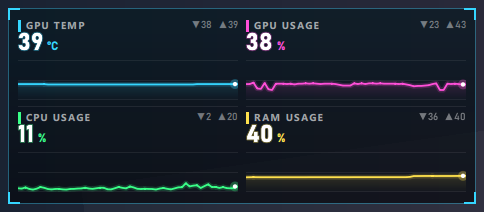
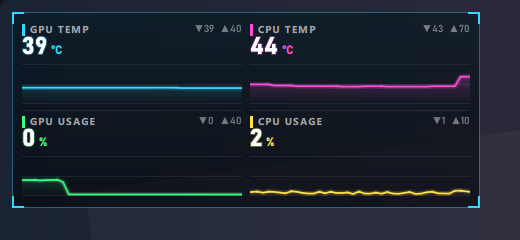
Screenshots: replace the old pictures with new ones (v1.17.7 window)
New: Home, Graphs, Overlay, Graph overlay, the graph overlay itself, Personalize.
Removed: the old Optimizer picture. README and README.fa show the new set.

Changed region(s): [[0.0, 0.0283, 0.9917, 0.9623], [0.3719, 0.4811, 0.6818, 0.6792], [0.3719, 0.0849, 0.6818, 0.2547]]

diff --git a/README.fa.md b/README.fa.md
@@ -5,7 +5,7 @@
 
 [English](README.md) · [دانلود](https://github.com/unrealhamed/Lmonitor/releases) · [گزارش باگ](https://github.com/unrealhamed/Lmonitor/issues/new?template=bug_report.md) · [پیشنهاد قابلیت](https://github.com/unrealhamed/Lmonitor/issues/new?template=feature_request.md)
 
-> **وضعیت: نسخهی اولیه (v1.17.6).** فقط توسط سازنده روی یک لپتاپ ویندوز ۱۱ (RTX 4070 Laptop + Intel Core i7-12700H) آزمایش شده است. روی سختافزارهای دیگر ممکن است بعضی سنسورها `n/a` نشان بدهند. گزارش باگ خوشآمد است.
+> **وضعیت: نسخهی اولیه (v1.17.7).** فقط توسط سازنده روی یک لپتاپ ویندوز ۱۱ (RTX 4070 Laptop + Intel Core i7-12700H) آزمایش شده است. روی سختافزارهای دیگر ممکن است بعضی سنسورها `n/a` نشان بدهند. گزارش باگ خوشآمد است.
 
 ## تصاویر
 
@@ -15,9 +15,11 @@
 |---|---|
 | ![اورلی نمودار: چهار نمودار زنده - دمای GPU، مصرف GPU، مصرف CPU و مصرف RAM - با تم Neon](docs/screenshots/graph-overlay-hud.png) | ![صفحهی اورلی نمودار: پیشنمایش زنده، انتخاب نمودارها، بازهی زمانی، جایگاه، تم رنگی، اندازه و چیدمان](docs/screenshots/graph-overlay.png) |
 
-| تنظیمات اورلی | بهینهساز |
+| نمودارها (لحظهای) | تنظیمات اورلی |
 |---|---|
-| ![صفحهی اورلی: پیشنمایش زندهی نوار، تراکم، جایگاه، ظاهر و مقادیری که نشان میدهد](docs/screenshots/overlay-settings.png) | ![صفحهی بهینهساز: پریستهای آماده، تنظیمات بازی ویندوز، پاور پلن، برنامههای استارتاپ و تاریخچهی برگرداندن](docs/screenshots/optimizer.png) |
+| ![صفحهی نمودارها: دمای CPU و GPU، RAM، مصرف CPU و GPU، دانلود و دور فن بهصورت لحظهای](docs/screenshots/graphs.png) | ![صفحهی اورلی: پیشنمایش زندهی نوار، تراکم، جایگاه، ظاهر و مقادیری که نشان میدهد](docs/screenshots/overlay-settings.png) |
+
+![صفحهی شخصیسازی: اجرا با ویندوز، اندازهی برنامه، گوشهها، فونت، ده پوسته و رنگهای اصلی](docs/screenshots/personalize.png)
 
 ## دانلود و نصب
 
@@ -63,7 +65,7 @@
 **نمودارهای خطی زنده** روی بازی؛ مثلاً دمای GPU و CPU کنار FPS. از منوی کناری، بخش *بازی*، صفحهی **اورلی نمودار** روشنش کنید. **دو تا** از آن هست (*نمودار ۱* و *نمودار ۲*) و هر کدام نمودارها، جا و ظاهر خودش را دارد.
 
 - **نمودارها:** FPS، فریمتایم، دمای GPU / CPU، مصرف GPU / CPU / RAM، توان GPU / CPU. تا ۶ تا و به ترتیب دلخواه شما. هر نمودار مقدار زنده و کمترین / بیشترین مقدار همان بازه را نشان میدهد.
-- **بازهی زمانی:** *لحظهای* (۱۰ ثانیهی آخر، ۴ بار در ثانیه؛ فریمتایم بدترین فریم هر لحظه را نشان میدهد تا لگها دیده شوند)، ۳۰ ثانیه، ۱، ۲ یا ۵ دقیقه.
+- **بازهی زمانی:** *لحظهای* (۱۰ ثانیهی آخر، ۴ بار در ثانیه؛ فریمتایم بدترین فریم هر لحظه را نشان میدهد تا لگها دیده شوند) یا *۱ دقیقه*. پیشفرض، لحظهای است.
 - **حرکت روان:** خطها پیوسته حرکت میکنند و هر ثانیه پرش ندارند (یا *کممصرف*: هر بار خواندن یک قدم). اندازهگیری روی لپتاپ سازنده: در هر فریم حداکثر ۰٫۳ پیکسل فاصله از حرکت یکنواخت.
 - **عددهای واقعی:** با nvidia-smi و شمارندههای ویندوز مقایسه شد؛ میانگین اختلاف: دمای GPU ۰٫۳ درجه، مصرف GPU ۰٫۲۵٪، توان GPU ۰٫۰۴ وات، مصرف CPU زیر بار ۱٫۴٪، RAM ۰٫۱۴٪. عددهای کوچک کمترین / بیشترین، مقدارهای واقعی خواندهشدهاند.
 - **ظاهر:** *HUD گیمینگ* (گوشههای براکتی و خطهای درخشان) یا *ساده*؛ ۷ تم رنگی (*Neon، Toxic، Crimson، Violet، Ice، Gold، Mono*)؛ کوچک / متوسط / بزرگ؛ ستونی، ردیفی یا شبکهای؛ تیرگی پسزمینه از ۰ تا ۱۰۰٪.
@@ -85,8 +87,8 @@
 
 ## پنجرهی برنامه
 
-- **Home:** کارتهای CPU / GPU / RAM / Storage با وضعیت، نمودار زمان واقعی (۱ دقیقه / ۵ دقیقه / ۱ ساعت / ۲۴ ساعت)، شبکه و پیشنمایش زندهی اورلی.
-- **Graphs** و **Hardware:** نمودارهای زنده و اطلاعات تفصیلی CPU، GPU، حافظه، ذخیرهسازی، شبکه و سیستم.
+- **خانه:** کارتهای CPU / GPU / RAM / Storage با وضعیت، نمودار عملکرد (لحظهای یا ۱ دقیقه)، شبکه، کلید روشن/خاموش اورلی و اورلی نمودار، و کادر *همین حالا*: بازیِ جلوی صفحه، نرخ فریمش، وضعیت ضبط جلسه، آخرین جلسه و وضعیت حالت امن.
+- **نمودارها** و **سختافزار:** نمودارهای زنده (لحظهای یا ۱ دقیقه؛ با کلیک بزرگ میشوند و میشود خطهای دیگر را رویشان انداخت) و اطلاعات تفصیلی CPU، GPU، حافظه، ذخیرهسازی، شبکه و سیستم.
 - **Overlay:** همهی تنظیمات اورلی بالا، با پیشنمایش زنده.
 - **Graph overlay:** تنظیمات اورلی نمودار، با پیشنمایش زنده که عددهای واقعی شما را نشان میدهد.
 - **Sessions:** هر بازی خودکار ثبت میشود (برنامهای که جلو فریم میکشد و PresentMon آن را میبیند؛ مرورگرها و پخشکنندهها نادیده گرفته میشوند؛ سشن زیر ۱ دقیقه حذف میشود). برای هر سشن میانگین FPS، ۱٪ / ۰٫۱٪ Low از فریمتایم واقعی، مصرف، دما و کلاک ذخیره میشود. «یافتهها» فقط وقتی نشان داده میشوند که سنسورها آن را ثابت کنند؛ سنسور ناموجود *Unknown* نشان داده میشود، نه «سالم». دادهها در `%APPDATA%\Lmonitor\sessions.db` میمانند و میتوان ثبت را خاموش کرد.

diff --git a/README.md b/README.md
@@ -5,7 +5,7 @@ It puts a small click-through bar over your game (FPS, 1% lows, CPU / GPU / RAM 
 
 [فارسی](README.fa.md) · [Download](https://github.com/unrealhamed/Lmonitor/releases) · [Report a bug](https://github.com/unrealhamed/Lmonitor/issues/new?template=bug_report.md) · [Request a feature](https://github.com/unrealhamed/Lmonitor/issues/new?template=feature_request.md)
 
-> **Status: early release (v1.17.6).** Tested by the author on one Windows 11 laptop (NVIDIA RTX 4070 Laptop GPU + Intel Core i7-12700H). Some sensors may show `n/a` on other hardware. Bug reports are welcome.
+> **Status: early release (v1.17.7).** Tested by the author on one Windows 11 laptop (NVIDIA RTX 4070 Laptop GPU + Intel Core i7-12700H). Some sensors may show `n/a` on other hardware. Bug reports are welcome.
 
 ## Screenshots
 
@@ -15,9 +15,11 @@ It puts a small click-through bar over your game (FPS, 1% lows, CPU / GPU / RAM 
 |---|---|
 | ![Graph overlay: four live charts - GPU temperature, GPU usage, CPU usage and RAM usage - in the Neon gaming HUD style](docs/screenshots/graph-overlay-hud.png) | ![Graph overlay page: live preview, chart picker, time span, position, color themes, size and layout](docs/screenshots/graph-overlay.png) |
 
-| Overlay settings | Optimizer |
+| Graphs (real time) | Overlay settings |
 |---|---|
-| ![Overlay page: live preview of the bar, density, position, appearance and the metrics it shows](docs/screenshots/overlay-settings.png) | ![Optimizer page: quick presets, Windows game settings, power plan, startup programs and undo history](docs/screenshots/optimizer.png) |
+| ![Graphs page: CPU and GPU temperature, RAM, CPU and GPU usage, download and fan speed in real time](docs/screenshots/graphs.png) | ![Overlay page: live preview of the bar, density, position, appearance and the metrics it shows](docs/screenshots/overlay-settings.png) |
+
+![Personalize page: start with Windows, interface size, corners, font, ten app themes and accent colors](docs/screenshots/personalize.png)
 
 ## Download and install
 
@@ -63,7 +65,7 @@ Values turn from white to warning colors with load and temperature (these limits
 Small **live line charts** over your game - for example GPU and CPU temperature next to FPS. Turn it on in **Graph overlay** (side menu, *Gaming*). There are **two** of them (*Graph 1* and *Graph 2*), each with its own charts, place and look.
 
 - **Charts:** FPS, frame time, GPU / CPU temperature, GPU / CPU / RAM usage, GPU / CPU power - pick up to 6, in your own order. Each chart shows the live value and the lowest / highest value of the time span.
-- **Time span:** *Real time* (the last 10 seconds, read 4 times a second - frame time shows the worst frame of each moment, so stutters stand out), 30 s, 1 min, 2 min or 5 min.
+- **Time span:** *Real time* (the last 10 seconds, read 4 times a second - frame time shows the worst frame of each moment, so stutters stand out) or *1 minute*. Real time is the default.
 - **Smooth motion:** the lines glide continuously instead of jumping once a second (or choose *Power saver*: one step per reading). Measured on the author's laptop: at most 0.3 px off a steady speed per frame.
 - **Real numbers:** checked against nvidia-smi and Windows performance counters - GPU temperature within 0.3 °C, GPU usage 0.25 %, GPU power 0.04 W, CPU usage under load 1.4 %, RAM 0.14 % (average differences). The small min / max numbers are the real lowest and highest readings.
 - **Look:** *Gaming HUD* (corner brackets, glowing lines) or *Clean*; 7 color themes (*Neon, Toxic, Crimson, Violet, Ice, Gold, Mono*); small / medium / large; column, row or grid; background opacity from 0 to 100 %.
@@ -85,8 +87,8 @@ Not measured yet: the effect on FPS inside real games (please report what you se
 
 ## The window
 
-- **Home:** CPU / GPU / RAM / Storage cards with status words, a real-time chart (1 min / 5 min / 1 hr / 24 hr), network, and a live overlay preview.
-- **Graphs** and **Hardware:** live charts and detailed CPU, GPU, memory, storage, network and system information.
+- **Home:** CPU / GPU / RAM / Storage cards with status words, a performance chart (real time or 1 minute), network, switches for the overlay and the graph overlay, and a *Right now* box: the game in front, its frame rate, the session recorder, your last session and the safe-mode state.
+- **Graphs** and **Hardware:** live charts (real time or 1 minute; click one to enlarge it and put other lines on the same chart) and detailed CPU, GPU, memory, storage, network and system information.
 - **Overlay:** every overlay setting above, with a live preview.
 - **Graph overlay:** the settings of the graph overlay, with a live preview that uses your real numbers.
 - **Sessions:** every game is recorded automatically (a program drawing frames in front, seen by PresentMon; browsers and players are ignored; sessions under 1 minute are dropped). Each session stores average FPS, 1% / 0.1% lows from real frame times, load, temperatures and clocks. Findings only appear when the sensors prove them; a missing sensor is shown as *Unknown*, never as "fine". Data stays in `%APPDATA%\Lmonitor\sessions.db` and can be switched off.

diff --git a/docs/screenshots/README.md b/docs/screenshots/README.md
@@ -1,26 +1,17 @@
 # Screenshots
 
-Real screenshots of the program. Already here: `dashboard.png`, `overlay-settings.png`, `optimizer.png` (v1.15.2; the startup-program list is blurred on purpose), `graph-overlay.png` and `graph-overlay-hud.png` (v1.17.2, taken without administrator rights - no CPU temperature).
+Real screenshots of Lmonitor v1.17.7, taken on the author's laptop with administrator rights.
+The Windows user name and PC name are replaced by "Player" / "GAMING-PC".
 
-## How to take them
-1. Start Lmonitor, press `Win + Shift + S`, select the window and save the picture here as PNG.
-2. Use a clean desktop, and crop out anything private (your user name, other windows).
-
-## Suggested pictures (file names)
-| File | What to show |
+| File | What it shows |
 |---|---|
 | `dashboard.png` | Home page |
+| `graphs.png` | Graphs page (real time) |
 | `overlay-settings.png` | Overlay page with the live preview |
-| `overlay-in-game.png` | the bar over a game (hide the game's name if you want) |
-| `performance.png` | Performance page with charts |
-| `hardware.png` | Hardware page |
-| `sessions.png` | Sessions page with a session open |
-| `diagnostics.png` | Diagnostics scan result |
-| `personalize.png` | Personalize page (themes) |
+| `graph-overlay.png` | Graph overlay page |
+| `graph-overlay-hud.png` | the graph overlay itself (cut from the preview) |
+| `personalize.png` | Personalize page (themes, colors, size) |
 
-## Show them in the README
-Add new pictures to the **Screenshots** section of `README.md` (and **تصاویر** in `README.fa.md`), for example:
-
-```
-![Dashboard](docs/screenshots/dashboard.png)
-```
+## Taking new ones
+1. Start Lmonitor, press `Win + Shift + S`, select the window and save the picture here as PNG.
+2. Crop out anything private (your user name, other windows, the list of startup programs).
